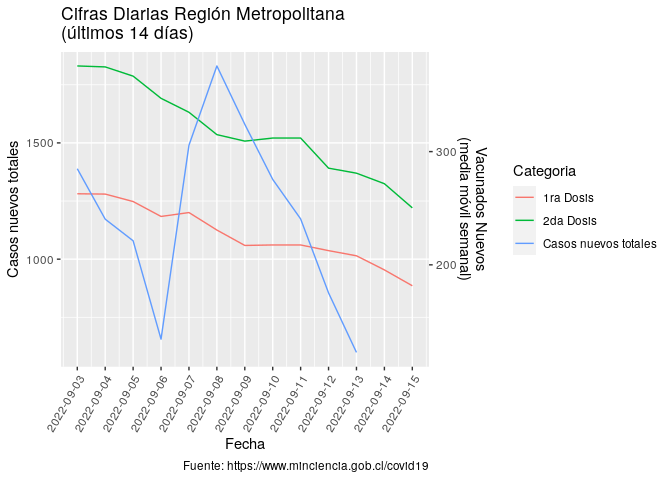
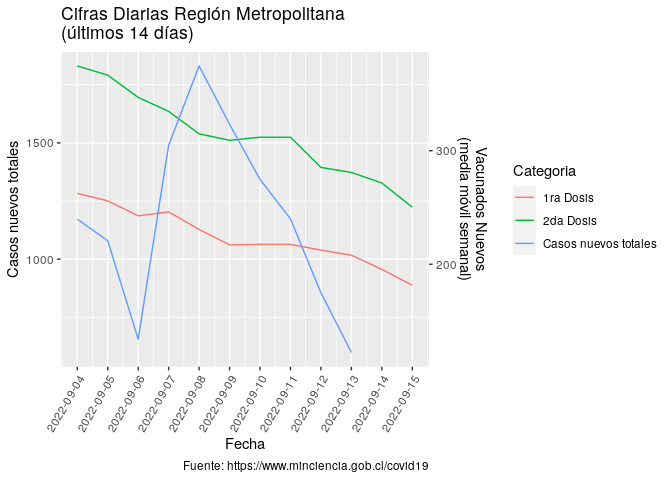
Re-build Rmarkdown files

diff --git a/README.md b/README.md
@@ -3,7 +3,7 @@
 
 Ejemplo de uso de total\_casos de COVID recopilados por el Ministerio de
 Ciencia de Chile <https://www.minciencia.gob.cl/covid19>. Última
-actualización: 2022-09-16
+actualización: 2022-09-17
 
 ## Visualización desde el comienzo de la pandemia
 
